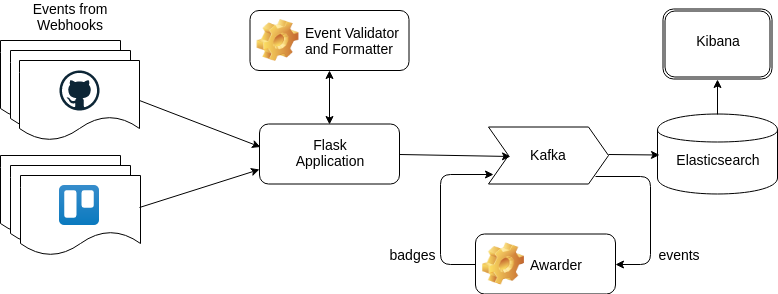
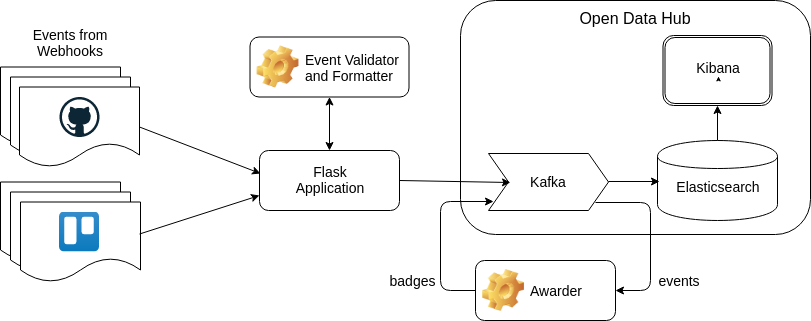
Updated README.md with Motivation, Credits and Disclaimer

diff --git a/README.md b/README.md
@@ -1,17 +1,26 @@
 # ludus
-Ludus is a gamification framework for Github and Trello. It can also be extended to other version control and project management tools like Gitlab, Jira etc. This application has been configured with 15 badges currently. You can desgin and contribute more badges as per your needs. 
+Ludus is a gamification framework for Github and Trello. It can also be extended to other version control and project management tools like Gitlab, Jira etc. This application has been configured with 11 events and 15 badges currently. You can design and contribute more events or badges as per your needs.</br> 
+The Ludus project is sponsered by **Red Hat Inc**. As a part of **Red Hat** AICoE under Team AIOps this project was completed as the Summer Internship project.
+
+## Motivation
+
+According to TalentLMS Gamification at Work Survey 2018, about 85 % of employees agreed that they would spend more time on the gamified software. Our motivation behind Ludus is to bring a positive transformation in the software industry by the gamification of Version Control and Project Tracking tools.
 
 ## Architecture
 
 ![architecture](/docs/architecture.png)
+
+For more information on the Open Data Hub architecture go [here](https://opendatahub.io/news/2018-12-04/open-data-hub-overview.html)
 
 ## Getting started
 
 These instructions will get you a copy of the project up and running on your local machine for development and testing purposes. See deployment for notes on how to deploy the project on a live OpenShift Cluster.
 
 ## Deployment
+
+## How to configure new events and badges?
 	
-## How to use?
+## How to configure Github and Trello webhooks?
 
 ## Built With
 
@@ -25,6 +34,14 @@ These instructions will get you a copy of the project up and running on your loc
 * OpenShift
 
 ## Credits
+
+* [AICoE](https://github.com/AICoE)
+* [Open Data Hub](https://opendatahub.io/)
+* [Faust](https://github.com/robinhood/faust)
+
+## Disclaimer
+
+This project is currently designed for **Red Hat** internal usage only.
 
 ## License
 
